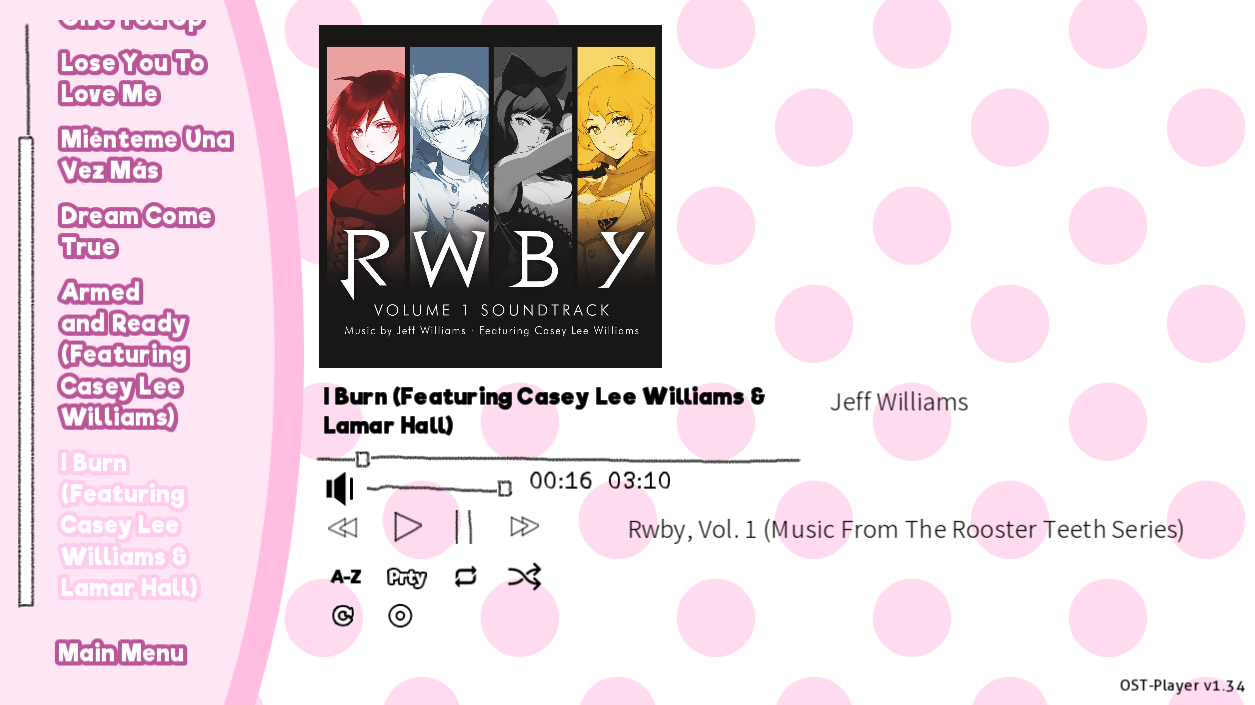
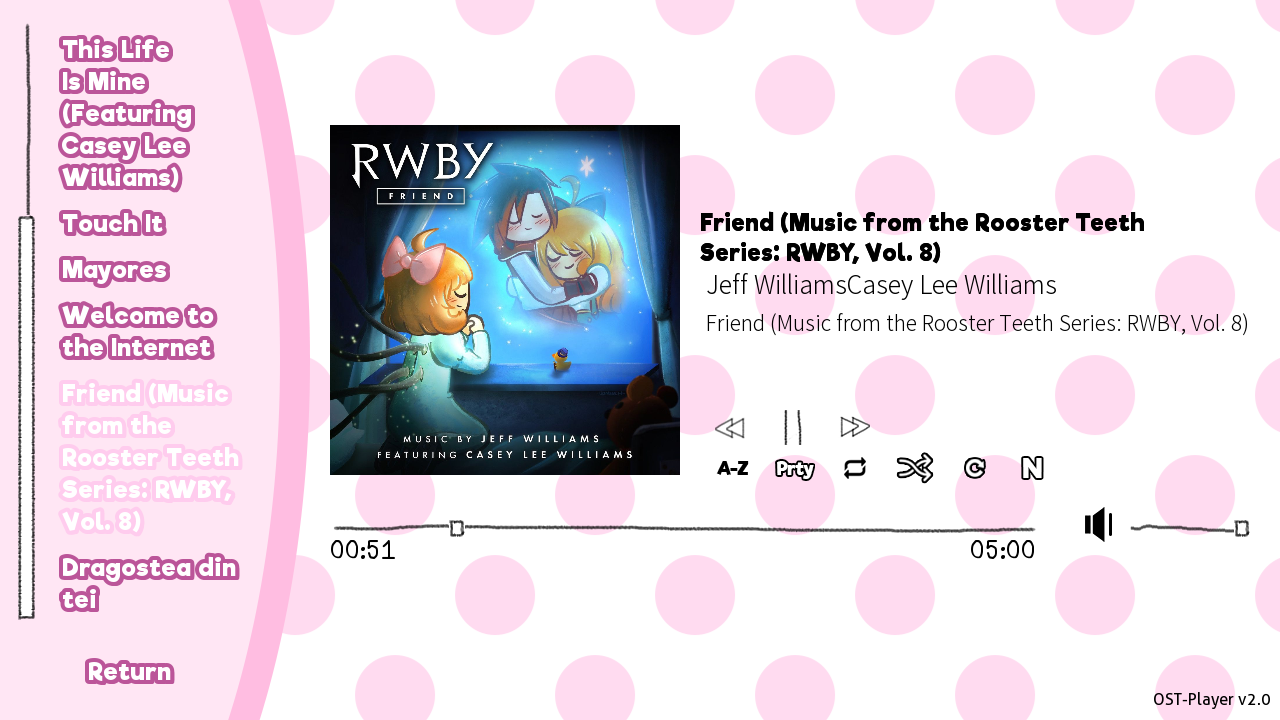
update readme info

diff --git a/README.md b/README.md
@@ -1,13 +1,13 @@
-# DDLC-OSTPlayer
+# DDLC OST-Player
 
-A heavily revamped version of Nikso's Soundtrack Player for DDLC. <u>Current Version:</u> [**1.34**](https://github.com/GanstaKingofSA/DDLC-OSTPlayer/releases/latest)
+A heavily revamped version of Nikso's Soundtrack Player for DDLC. <u>Current Version:</u> [**2.0**](https://github.com/GanstaKingofSA/DDLC-OSTPlayer/releases/latest)
 
 <img src="assets/screenshot0001.png" alt="New UI" width=420x> 
 <img src="assets/screenshot0002.png" alt="Old UI" width=420x>
 
 **DISCLAIMER:** This is not afiliated or endorsed by Team Salvato or Nikso. The Scattered Stars <u>Logo</u> in `Wake Up Unchanged` is not free to use, but is only allowed in this build as a display to the soundtrack player. If you plan to use this, remove it in your final build.
 
-> All songs featured above are owned by the developer and are not included in DDLC-OSTPlayer. (Shoo UMG, SME and all other major labels.)
+> All songs featured above are owned by the developer and are not included in DDLC OST-Player. (Shoo UMG, SME, Rooster Teeth and all other major labels.)
 
 ## Credits
 
@@ -22,6 +22,7 @@ A heavily revamped version of Nikso's Soundtrack Player for DDLC. <u>Current Ver
 - raphaelsilva (Pixabay) - Shuffle Icon
 - Josy_Dom_Alexis (Pixabay) - Volume Icon
 - Google - Noto Sans SC Font (Author/Description Tag)
+- Ren'Py Discord - Feedback on Ren'Py Universal Player Feats Now In DDLC OST-Player
 - Weiss Schnee - Support (Weiss :D)
 
 ## What does this do?
@@ -30,87 +31,69 @@ This allows the user to play the soundtrack of mods outside the main story, side
 
 ## What does this version improve on?
 
-1. Ability to play MP3's.
+1. Ability to play MP3, OGG, WAV and OPUS files with metadata!
 2. Improved music player aesthetic.
 3. Dynamic title and font size changes (sort of) and cover art scaling.
-4. Song metadata support.
-5. Sideload songs from your playlist to be played with the mod's tracks.
-6. RPA Playback and Metadata Support
+4. Sideload songs from your playlist to be played with the mod's tracks.
+5. RPA/APK Playback and Metadata Support
    > You will need to enable Developer Mode in order to make the metadata of songs in the track RPA folder generate for distribution.
-7. Forward and Rewind back a song in progress.
-8. Refresh Song List Support.
-9. Sorting from within the player.
-10. Replay/Shuffle Support
-11. Automatically jumps to the next song after current song has ended.
-12. Improved fonts for some languages. See Notes Below.
+6. Improved fonts for some languages. See a example [here.](assets/screenshot0006.png)
 
-    > Due to languages and font character limits, the fonts in DDLC-OSTPlayer will not cover all languages.
-
-    > Riffic-Bold will have to be downloaded separately to comply with the FontSpring license.
+    > Due to languages and font character limits, the fonts in DDLC OST-Player will not cover all languages. Riffic-Bold will have to be downloaded separately to comply with the FontSpring license.
+7. Android Support!
 
 ## What do I need to run this?
 
-1. Copy of DDLC from [DDLC.moe](https://ddlc.moe)
-2. The Latest DDLC-OSTPlayer [ZIP File](https://github.com/GanstaKingofSA/DDLC-OSTPlayer/releases/latest)
+> This assumes you already have a copy of DDLC with the mod template installed over it.
+
+1. The Latest DDLC OST-Player [ZIP File](https://github.com/GanstaKingofSA/DDLC-OSTPlayer/releases/latest)
    > If you already have Nikso's Audio Player installed in your mod and are upgrading to this one, copy the ZIP contents to your mod's game folder **and** delete the `audio_player.rpy` file from within within `mod_assets`.
-3. **(Recommended but Optional)** Riffic-Bold from [Fontspring](https://www.fontspring.com/fonts/inky-type/riffic/riffic-bold) to add more font characters to the program.
+2. **(Recommended but Optional)** Riffic-Bold from [Fontspring](https://www.fontspring.com/fonts/inky-type/riffic/riffic-bold) to add more font characters to the program.
    > This font is free, but requires you to make a Fontspring account and have a _Desktop license_ for it in order for you to use this.
-4. **(Optional)** Custom Music in a folder called `track` in the `game` folder
-   > You can change this folder name or path to something else if you like. Do let people knowing that you changed it if they want to sideload songs to it.
 
 ## How do I install this?
 
-1. Drop all the contents in this ZIP file to the game folder where DDLC.exe/DDLC.sh is.
+> This assumes you already have a copy of DDLC with the mod template installed over it.
+
+1. Drop all the contents in this ZIP file into the `game` folder.
    > If you are on MacOS/OS X, you must right-click DDLC.app and click `Show Package Contents` then navigate to `Contents/Resources/autorun/game` and drop the ZIP file contents in there.
-2. Open `options.rpy` and add this line under line `192`
+2. Open *options.rpy* and add this line under line `192`
    ```py
    build.classify("game/RPASongMetadata.json", "scripts all")
    ```
+3. Copy this line to *screens.rpy* under `textbutton _("Load Game")` and restart DDLC.
+   ```py
+   textbutton _("Music Room") action [ShowMenu("music_player"), Function(get_music_channel_info), Stop('music', fadeout=2.0), Function(refresh_list)]
+   ```
 3. **(Recommended but Optional)** Download the `Riffic-Bold` font from [Fontspring](https://www.fontspring.com/fonts/inky-type/riffic/riffic-bold) and copy the `riffic-bold.ttf` in _Fonts_ to `game/mod_assets/music_player`
-   - Open `audio_player.rpy` and add a `#` to the front of lines `280`, `302` and `311`. Then remove the `#` in the front of lines `281`, `303` and `312`.
-
-## How do I access the player?
-
-Copy this line to `screens.rpy` under lines `443-478` and restart DDLC.
-
-```python
-if main_menu:
-    textbutton _("OST Player") action [Show("music_player"), SetMute("music", True), SetMute("music_player_mixer", False), SetVariable("current_soundtrack", False), If(renpy.game.preferences.mute.get("music", False), true=SetVariable("music_was_muted_before_soundtrack_player_opened", True), false=SetVariable("music_was_muted_before_soundtrack_player_opened", False)), Function(refresh_list)]
-```
+   - Open *audio_player.rpy* and add a `#` to the front of lines `287`, `303` and `312`. Then remove the `#` in the front of lines `288`, `304` and `313`.
+4. Put music in the `track` folder inside the `game` folder and try it out!
 
 ## Can I still define songs the old way?
 
-Yes you can. The old format still works despite the revamp however you must add this line after defining it.
+Yes you can. The old format still works however you must add this line after defining it.
 
-```python
+```py
 manualDefineList.append(Wake_Up_Unchanged)
 ```
 
 > Change `Wake_Up_Unchanged` to your song variable
 
+Additionally you may use `unlocked` to lock some songs from playing until the player hears it in-game. See *manualtracks.rpy* for a example.
+
+> It is now recommended to move all the manual defines to *manualtracks.rpy* for easier define access versus doing so in *audio_player.rpy*.
+
 ## How do I priortize a song or make a song the first one?
 
-Set organizePriority to True and set the song priority by a value. 0 is the highest priority you can make a song be while 1, 2, etc. will be prioritzed lower in the list. i.e. `0 > 1 > 2 > ...`
-
-## How do I organize the list alphabetically?
-
-Turn on the A-Z Priority in the music player when playing a song or default it on, by setting `organizeAZ` to True.
-
-## Can the organizations work together?
-
-Yes. See the following organization images below.
-
-- [Priority Organization](assets/screenshot0024.png)
-- [A-Z Organization](assets/screenshot0020.png)
-- [A-Z and Priority Organization](assets/screenshot0025.png)
+Manually define your song and give it a priority value. 0 is the highest priority you can make a song be while 1, 2, etc. will be prioritzed lower in the list. i.e. *0 > 1 > 2 > ...*
 
 ## Why is there a file called `tinytag.py` in `python-packages`?
 
 This handles the metadata of songs sideloaded or those that have metadata in the game.
 
-## Why is `Riffic-Bold` not included in DDLC-OSTPlayer?
+## Why is `Riffic-Bold` not included in DDLC OST-Player?
 
-Riffic-Bold is not included in DDLC-OSTPlayer due to licensing issues with Fontspring. In order to install Riffic-Bold you will need to download it yourself as a _Desktop license_ and install it onto your project as listed above in **How do I install this?**
+Riffic-Bold is not included in DDLC OST-Player due to licensing issues with Fontspring. In order to install Riffic-Bold you will need to download it yourself as a _Desktop license_ and install it onto your project as listed above in **How do I install this?**
 
 ## How do I add metadata info?
 
